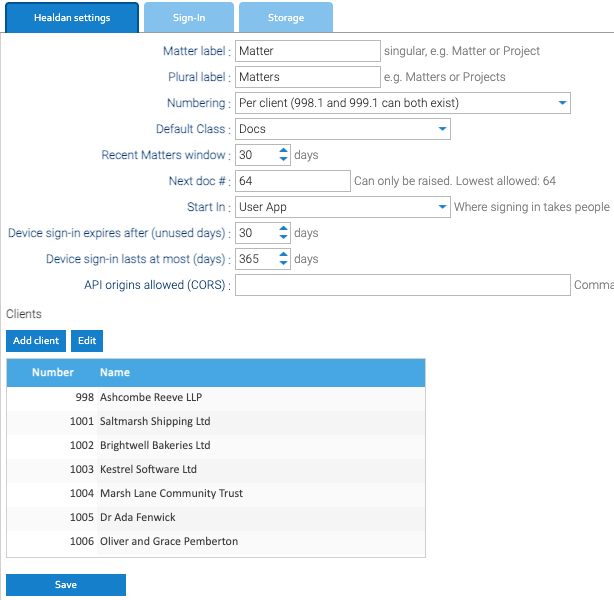
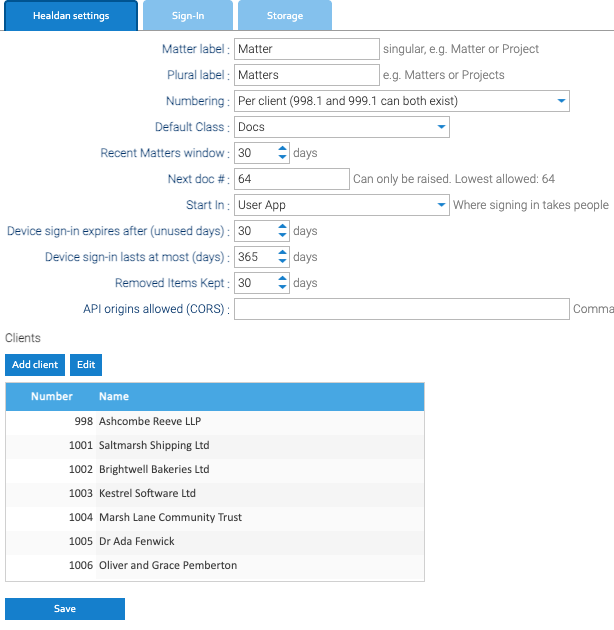
Document folders and the Trash in the User Guide
The Trash page is rewritten for the app, with the Classic Interface's Trash as a section and a new screenshot from the demo firm. Copying, Moving and Deleting covers deleting and moving folders, Undo and the question before a folder leaves its matter; Getting Around and My Matters name the Delete key, the tree's menu and drag. The held-back lines (top-level folders, Known Limitations) land here, the Classic Interface's real labels (Permanently Delete, Empty trash) replace the Admin pages' descriptions, and Healdan Settings' screenshot shows Removed Items Kept.

Changed region(s): [[0.0, 0.0, 1.0, 0.51], [0.0, 0.51, 0.7117, 1.0]]

diff --git a/site/content/user/documents/the-trash/index.md b/site/content/user/documents/the-trash/index.md
@@ -3,41 +3,103 @@ title: The Trash
 weight: 7
 ---
 
-{{< callout type="info" >}}
-This is in the [Classic Interface](../../the-classic-interface/), which the Healdan app doesn't replace yet. In the app, open your menu and choose **Classic Interface**; you stay signed in.
-{{< /callout >}}
+A document or folder you delete goes to the Trash, where you can restore it. Healdan has **Undo** on the message
+that follows a delete, for the first moments, and the **Trash** at the foot of the left pane for as long as you need.
+Taking an item out of the Trash is the only step that can't be undone by you: even then an administrator can still
+restore it for a while.
 
-A document or folder you delete goes to the trash, where you can restore it until it's removed for good.
+## Where a Deleted Item Goes
+
+1. **In the Trash.** You can restore anything you deleted, from the Trash.
+2. **Removed.** You took it out of the Trash with **Remove…** or **Empty Trash…**. It's gone from your sight, and you
+   can't restore it, but an administrator can, for a number of days: 30 by default, which an administrator sets.
+3. **Destroyed.** After those days it's gone for good.
+
+So a mistake that you notice late is still worth reporting to your administrator.
+
+## Deleting, and Undo
+
+Select a document or a folder and press **Delete** (on a Mac, the delete key), or choose **Delete** from its menu.
+Healdan asks first, for example "Move "Old Drafts" to the Trash?", and for a folder says what it holds: "It holds 3
+folders and 11 documents." The question ends "You can restore it from the Trash, at the foot of the left pane." Choose
+**Move to Trash**. See [Copying, Moving and Deleting](../copying-moving-and-deleting/) for who can delete what.
+
+Healdan then says "Moved "Old Drafts" to the Trash", with an **Undo** button. The message stays for about 10 seconds,
+longer while the pointer or the keyboard's focus is on it. **Undo** puts back what that delete took, where it was, and
+says "Restored "Old Drafts"". From the keyboard, press **F6** to move to the message, then Tab to **Undo** and press
+Enter.
+
+A delete takes a folder with everything in it that was in it, and its trash entry is that folder as one item. It
+doesn't take what was already in the Trash, yours or a colleague's, or already removed.
 
 ## Finding It
 
-Open the **Trash** section at the bottom of the Documents screen's left pane. It lists what **you** deleted, by
-name: others' deletions are in their own trash. Type in the box above the list to filter it.
+Choose **Trash**, at the foot of the left pane, below **My Favorites**. In a narrow window it's at the foot of the
+left pane too, which the **☰** (Navigation) button opens. It lists what **you** deleted, newest first. Others'
+deletions are in their own Trash.
 
-![The Trash section of the left pane listing a deleted document, Subscription Agreement – First Draft.docx, and a deleted folder, Old Drafts, which is right-clicked to show Restore, Remove and Empty trash](trash.png)
+![The Trash listing two deleted documents and a deleted folder, Superseded Drafts, with "2 items" beside its name. The folder is selected and its details are at the right: Folder, 2 items, Deleted From 1003.1 › Drafts, Deleted, Holds 1 folder, 1 document, with Restore and Remove… buttons](trash.png)
+
+- **A deleted folder is one row,** with how many items it holds, such as "14 items", beside its name. What's inside it
+  isn't a row of its own.
+- **The columns** are **Name**, **Doc #**, **Deleted From** and **Deleted**. **Deleted From** gives the matter number
+  and the folder path. Choose the **Name** or **Deleted** header to sort by it.
+- **The count** at the top of the list says how many items you have.
+- **Select an item** and its details open at the right: its kind, its size or, for a folder, what it **Holds**, such
+  as "3 folders, 11 documents", **Deleted From** in full, and **Deleted**, with **Restore** and **Remove…**.
+- **Enter opens nothing,** as a deleted item has no page to open.
+
+With nothing in it, the Trash says "Nothing in the Trash." and where deleted items come.
 
 ## Restoring
 
-Healdan restores into the folder that's **open in the folder tree**, which isn't always where the item was. So:
+Select one or more items and choose **Restore** in the toolbar or the details, or right-click one and choose
+**Restore**. Each goes **back to the folder it was deleted from**, and Healdan says, for example, "Restored "Old
+Drafts" to 1001.1 › Drafts", with **Open**, which takes you to that folder.
 
-1. In the **Browser** section, open the folder to restore into: usually the one it was deleted from.
-2. Open the **Trash** section, right-click the document or folder, and choose **Restore**.
-
-Healdan says "Document restored into the current folder", or "Folder restored into the current folder".
-
-- **The usual rule applies.** A document can only be restored into a folder inside a matter's workspace. Restored
-  at the top level of a matter, it's refused with "Documents can't be saved at the top level of a matter. Choose one
-  of its folders."
-- **You need the Delete permission** on what you restore, as you did to delete it. Restoring a document into another
-  folder than the one it came from also needs the Write permission there, and a folder the Add permission.
-- **If right-clicking does nothing,** the open folder is one you can't add to. Open another first.
-- **A restored document keeps its doc #.**
-- **Restoring a folder brings back what was deleted inside it,** even documents deleted before the folder itself.
+- **A restored document keeps its doc #,** and its versions come back with it.
+- **A restored folder brings back what was deleted with it,** and only that. A document someone deleted from the
+  folder earlier stays in its deleter's Trash, and can be restored into the folder once it's back.
+- **If that folder is gone,** or you can't put anything back into it, Healdan opens a window, "Restore "Old Drafts"
+  to…", where you choose another folder as you do for **Move To…**. The reason is "The folder it was deleted from is
+  gone, or you can't restore into it. Choose another."
+- **You need the Delete permission** on what you restore, as you did to delete it. The usual filing rules apply: a
+  document can only come back into a folder inside a matter's workspace, and a restore into another matter gives its
+  documents that matter's client and matter. A matter that already holds a copy of an email refuses a second one.
+- **Some items can't be restored here.** Healdan says ""Lease.pdf" can't be restored from here." An administrator
+  restores a Store in the Classic Interface.
 
 ## Removing for Good
 
-- **Remove,** on an item's right-click menu, takes it out of the trash for good, after you confirm. You can't restore
-  it afterwards.
-- **Empty trash** removes everything in your trash.
+**Remove…**, in the toolbar, the details, an item's right-click menu and on the **Delete** key, takes the selected
+items out of your Trash after you confirm. Healdan asks "Remove "Old Drafts" from the Trash?", and for a folder what it
+holds. Choose **Remove**, in red, or **Cancel**, which has the focus.
 
-Your administrator can see what everyone has deleted, under **Administration → Reports**.
+> You won't be able to restore it. An administrator can, for 30 days.
+
+The days are the number your administrator has set. **Empty Trash…**, at the right of the toolbar, asks "Empty the
+Trash?", says "This removes all 4 items you deleted." and ends the same way. Choose **Empty Trash**.
+
+Nothing in the app destroys anything. After the days an administrator sets, a nightly job destroys what was removed.
+
+## For Administrators
+
+An administrator sees **Mine**, **Everyone's** and **Removed** beside the heading. **Everyone's** adds who deleted each
+item, and restores anyone's. **Removed** lists what people took out of their Trash, with who removed it and when, and
+how long is left before it's destroyed, and has **Restore** only. See [The Trash and Removed
+Items](../../../admin/the-trash-and-removed-items/) in the Admin Guide.
+
+## In the Classic Interface
+
+The [Classic Interface](../../the-classic-interface/) has a Trash too, in the left pane's **Trash** section, which
+lists what **you** deleted, a deleted folder's documents and subfolders as rows of their own. It's the way to restore a
+Store.
+
+1. Open the **Trash** section, and open the folder to restore into in the **Browser** section. The Classic Interface
+   restores into the folder that's open in its folder tree, which isn't always where the item was.
+2. Right-click the document or folder in the **Trash** section and choose **Restore**.
+
+Healdan says "Document restored into the current folder", or "Folder restored into the current folder". A document
+restored at the top level of a matter is refused with "Documents can't be saved at the top level of a matter. Choose
+one of its folders." **Remove** and **Empty trash**, on the same menu, take items out of your Trash after a question, as the app's
+**Remove…** and **Empty Trash…** do. It follows the same rules otherwise.

diff --git a/site/content/user/documents/copying-moving-and-deleting/index.md b/site/content/user/documents/copying-moving-and-deleting/index.md
@@ -3,11 +3,13 @@ title: Copying, Moving and Deleting
 weight: 6
 ---
 
-In the app you can rename, move and delete documents, and make and rename folders. Copying a document, and moving or
-deleting a folder, are in the [Classic Interface](../../the-classic-interface/). What you can't do to a document, because of
-its permissions or because it's locked or checked out, is refused with a message in the app, and greyed out in the Classic Interface.
-All of it works in any list of documents in the app: a folder, search results, the Recent lists and a document's own
-page (`/app/doc/` and its doc #).
+In the app you can rename, move and delete documents and folders, and make folders. A matter's own folder and a Store
+are moved and deleted by an administrator in the [Classic Interface](../../the-classic-interface/), which is also where
+you copy a document or a folder. What you can't do, because of permissions or because a document is locked or checked
+out, is refused with a message in the app, and greyed out in the Classic Interface.
+Documents work in any list in the app: a folder, search results, the Recent lists and a document's own page
+(`/app/doc/` and its doc #). Folders work in a folder's list, **Recent › Folders**, a **Folders** search and the
+**My Matters** tree.
 
 ## Renaming a Document in the App
 
@@ -32,7 +34,7 @@ The rename is in the document's [history](../document-history/) and makes its ne
 ## Moving Documents in the App
 
 Select the documents, then choose the **⋯** (More) button, then **Move To…**, or right-click one of them and choose
-**Move To…**. A window opens that lists your **Recent Matters**, then your
+**Move To…**. The same goes for folders (see [Moving a Folder in the App](#moving-a-folder-in-the-app)). A window opens that lists your **Recent Matters**, then your
 **My Matters** other than those, so a matter in both is listed once, under Recent. Type in **Find a Matter** to search for another by its number or name.
 
 1. Choose the matter. The window lists its folders.
@@ -62,16 +64,66 @@ there, the others move and only they are counted.
 Dropping documents on a matter's top level, or on a search folder, says "Choose a folder inside the matter" and moves
 nothing. See [Where Documents Can Go](#where-documents-can-go).
 
-## Deleting Documents in the App
+## Deleting in the App
 
-Select them and press **Delete** (on a Mac, the delete key), or choose the **⋯** (More) button, then **Delete**, or
-right-click one of them and choose **Delete**. Healdan asks "Move 2 documents to the Trash?" and lists each one's name.
-Choose **Move to Trash**, or **Cancel**, or press **Esc**.
+Select documents or folders, or both, and press **Delete** (on a Mac, the delete key), or choose the **⋯** (More)
+button, then **Delete**, or right-click one of them and choose **Delete**. On a folder in a list, on a folder in the
+**My Matters** tree and on the open folder's **⋯** beside its name, the same choices are there. Healdan asks "Move
+"Lease.pdf" to the Trash?", or "Move 4 items to the Trash?", and lists them. For a folder it says what it holds: "It
+holds 3 folders and 11 documents." Choose **Move to Trash**, or **Cancel**, or press **Esc**.
 
-- **The Trash is in the Classic Interface,** where you can restore what you deleted: "The Trash is in the Classic
-  Interface, where they can be restored." See [The Trash](../the-trash/).
-- **You need the Delete permission.** A document that's locked, or checked out by anyone, you included, is refused with the
-  reason: release it first. The others are deleted all the same.
+Healdan then says "Moved "Lease.pdf" to the Trash", or "Moved 4 items to the Trash", with **Undo**, which puts it back
+where it was. See [The Trash](../the-trash/), which also restores what you deleted, for as long as it stays there.
+
+- **You need the Delete permission.** For a folder you need it on the folder and on everything inside it, including
+  what you can't see. If you don't have it everywhere, Healdan says "It holds items you don't have permission to
+  delete."
+- **Locked or checked-out documents are refused with the reason:** release them first. A folder with a document checked
+  out inside it, by anyone, you included, isn't deleted: Healdan says "Documents in it are checked out:", lists the
+  ones you can read and says "They can be deleted once they're checked in or released."
+- **A folder with an immutable document inside** can't be deleted: "It holds an immutable document, which can't be
+  deleted."
+- **Only administrators delete the folders at the top of a matter's workspace,** such as Correspondence and Drafts:
+  **Delete** is greyed out there for anyone else, and the **Delete** key says "Only administrators can delete a
+  matter's top-level folders." A matter's own folder isn't deleted in the app at all: "A matter's own folder is deleted
+  by an administrator in the Classic Interface."
+- **Several at once,** documents and folders together, each is deleted on its own. A window, "Some Items Weren't Moved
+  to the Trash", says which weren't and why, and the others are deleted all the same.
+- **Deleting the folder that's open** takes you to its parent.
+
+## Moving a Folder in the App
+
+A folder moves the ways documents do, and a selection can hold folders and documents together: each is moved on its
+own, with what's refused said per item.
+
+- **Move To…** on the folder's right-click menu, in the **⋯** (More) menu, in the **My Matters** tree's **⋯**, on the
+  open folder's **⋯** beside its name. The window is the one for documents, titled "Move "Old Drafts"" for one folder,
+  or "Move 4 Items".
+- **Dragging** the folder's row, or a folder in the **My Matters** tree, onto a folder in the tree. The folder you're
+  over lights up.
+
+In the window, a choice Healdan won't allow is greyed out with its reason:
+
+- **"The folder itself,"** the folder you're moving, and what's in it.
+- **"Already there,"** where it is already.
+- **"Administrators only,"** the top of a matter, for anyone but an administrator.
+
+A search folder is never listed. Healdan won't move a folder into a Store, a search folder or its own tree.
+
+- **You need the Move permission** on the folder and on everything inside it, including what you can't see, and the
+  Add permission on the folder you move it to. Without it Healdan says "It holds items you don't have permission to
+  move." or "You don't have permission to move this folder."
+- **A folder can't move while a document in it is checked out.** Healdan names the ones you can read.
+- **Only administrators move the folders at the top of a matter's workspace,** or move a folder to the top of one:
+  **Move To…** is greyed out there for anyone else. A matter's own folder is moved by an administrator in the Classic
+  Interface.
+- **A folder can't go where another folder has its name.**
+- **Healdan asks before a folder leaves its matter.** "Move "Old Drafts" into 1003.2 – Licence Review?", it says, with
+  "Its 11 documents will take 1003.2's client and matter, and the properties its template sets." Choose **Move**, or
+  **Cancel** to keep it where it is. A move within a matter goes at once.
+
+Healdan says "Moved "Old Drafts" to Drafts", naming the folder it went to, when it's done. There's no **Undo** for a move: move it back. The
+folder keeps its documents and their doc #s.
 
 ## Making a Folder in the App
 

diff --git a/site/content/user/getting-started/getting-around/index.md b/site/content/user/getting-started/getting-around/index.md
@@ -44,6 +44,8 @@ The left pane scrolls on its own when it's longer than the window. From the top 
 - **My Favorites:** documents and folders you've added as favourites, each with the icon of its kind, as in the
   lists, folders first and then by name. The star beside a folder's name, or beside a document's name in its details,
   adds one. A favourite can have a name of its own: see [A Favourite's Own Name](#a-favourites-own-name).
+- **Trash:** at the foot, apart from the sections above it, what you deleted, which you can restore from there. See
+  [The Trash](../../documents/the-trash/).
 
 [My Matters and Recent Matters](../../finding-documents/my-matters-and-recent-matters/) explains the first two.
 If your firm calls matters something else, such as projects, the headings use its word: Recent Projects and My
@@ -161,8 +163,9 @@ is a shortcut, never the only way.
   computers; **Rename**, **Move To…** and **Delete**; **Copy Link** and **Add to Favorites** (or **Remove
   from Favorites**). They work as the toolbar's buttons and its **⋯** (More) menu do.
 - **A folder,** in a list or in the **My Matters** tree: **Open**, **Open in New Tab**, **New Folder** where you can
-  make one (inside a matter, and never in a search folder), **Rename** (greyed out where you can't rename the folder,
-  and on a matter's own folder), and **Add to Favorites** or **Remove from Favorites**.
+  make one (inside a matter, and never in a search folder), **Rename**, **Move To…** and **Delete** (each greyed
+  out where you can't do it to the folder, and **Rename** on a matter's own folder, which has no **Move To…** or
+  **Delete** either), and **Add to Favorites** or **Remove from Favorites**.
 - **A matter,** in **My Matters**, **Recent Matters** or a search for matters: **Open**, **Open in New Tab**,
   **Rename**, which is always greyed out (a matter takes its name from **Edit Matter…** in the Classic Interface), and
   **Add to My Matters** or **Remove from My Matters**.
@@ -171,8 +174,8 @@ is a shortcut, never the only way.
 
 Right-clicking a document that isn't selected selects it first, in place of what was selected, as the Finder does.
 Right-clicking one of several selected documents keeps them all selected, and the menu then acts on all of them: only
-**Move To…**, **Delete** and, when they're all checked out to you, **Release** take several documents, so the rest are
-greyed out, as they are on the toolbar.
+**Move To…**, **Delete** and, when they're all checked out to you, **Release** take several documents, and
+**Move To…** and **Delete** folders too, so the rest are greyed out, as they are on the toolbar.
 
 **Open in New Tab** opens the document's or folder's page in a new browser tab. Anywhere else, such as a text box, the
 search box, an email's message, a preview, or the space in a list below its last row, right-clicking shows your
@@ -198,7 +201,8 @@ once the list has the focus.
 | Enter | Opens the document in its app (the Healdan Helper), or a folder |
 | Space | Opens Quick Look; Esc closes it |
 | F2 | Renames the selected document in place, the folder with the focus in a list or in the **My Matters** tree, or in **My Favorites** the favourite with the focus |
-| Delete | Moves the selected documents to the Trash, after asking |
+| Delete | Moves the selected documents and folders, or the folder with the focus in the **My Matters** tree, to the Trash, after asking |
+| F6 | Moves to the message that follows a delete, where Tab reaches **Undo** |
 | Shift-F10, or the menu key | Opens the [right-click menu](#right-click-menus) of the row, tree item or left-pane link with the focus; Esc closes it |
 | Option-Enter on **Upload** | Files with the form first |
 

diff --git a/site/content/admin/the-trash-and-removed-items.md b/site/content/admin/the-trash-and-removed-items.md
@@ -61,25 +61,27 @@ with it. Every document that comes back is queued for indexing, so search finds 
 
 ### In the Classic Interface
 
-The Classic Interface keeps its Trash, and its **Deleted documents** and **Deleted folders** reports (see
-[Reports](../system/reports/)). Two things differ from the Trash above:
+The Classic Interface keeps its **Trash** section in the Documents screen's left pane, and its **Deleted documents** and
+**Deleted folders** reports under **Administration → Reports** (see [Reports](../system/reports/)). Two things differ
+from the Trash above:
 
 - **Its Trash lists a deleted folder's contents as rows of their own,** as it always has, with the folder.
 - **It restores into the folder that is open in its tree,** not necessarily where the item was deleted from.
 
 What it restores follows the same rules as the rest: a restore of a folder brings back only what that delete took, and
 a folder that has been removed from the Trash comes back only for an administrator. The reports list what is in the
-Trash and what was removed, one row at a time, everyone's for administrators, and restore them. Restoring or removing
+Trash and what was removed, one row at a time, everyone's for administrators, and **Restore** them. Restoring or removing
 one row changes that row alone. A row removed on its own, such as one subfolder of a deleted folder, leaves that folder's
 item for an item of its own in Removed, where you can restore it before the nightly job destroys it.
 
-**Removing** takes a folder's contents with it, whichever of the Classic Interface's three removal actions you use:
-deleting a folder from the Trash, deleting a document from the Trash, and Empty trash. Each records who removed what
-and when.
+**Removing** takes a folder's contents with it, whichever way you do it in the Classic Interface: **Remove** on a
+folder in its Trash, **Remove** on a document there, or **Empty trash**, each after a question ("Do you want to delete
+the selected elements?", or "Do you want to clear the trash can?"). Each records who removed what and when.
 
-The reports' **Destroy Documents** action (it asks for the menu of that name) stays outside the tiers. It destroys a
-document at once, whatever its state and however recently it was deleted, and only administrators have it. Use it with
-care: there's nothing to restore afterwards.
+The **Deleted documents** report's **Permanently Delete** action, which also needs the **Destroy documents** menu (see
+[Reports](../system/reports/)), stays outside the tiers. It destroys a document at once, whatever its state and
+however recently it was deleted, and only people with those menus have it. Use it with care: there's nothing to restore
+afterwards.
 
 ## The Nightly Job
 

diff --git a/site/content/user/finding-documents/my-matters-and-recent-matters/index.md b/site/content/user/finding-documents/my-matters-and-recent-matters/index.md
@@ -14,8 +14,15 @@ open it in the main area.
 
 - **The tree opens to where you are.** When the folder open in the main area is inside one of your matters, the tree
   opens the folders above it and marks its row.
-- **Rename a folder** with its **⋯** button, shown while you point at it or move to it with the arrow keys, or with
-  **F2**. See [Renaming a Folder in the App](../../documents/copying-moving-and-deleting/#renaming-a-folder-in-the-app).
+- **Rename, move or delete a folder** with its **⋯** button, shown while you point at it or move to it with the arrow
+  keys: **Rename**, **Move To…** and **Delete**. **F2** renames it and the **Delete** key moves it to the Trash, after
+  asking. See [Renaming a Folder in the App](../../documents/copying-moving-and-deleting/#renaming-a-folder-in-the-app),
+  [Moving a Folder in the App](../../documents/copying-moving-and-deleting/#moving-a-folder-in-the-app) and
+  [Deleting in the App](../../documents/copying-moving-and-deleting/#deleting-in-the-app). A matter's own folder has
+  neither **Move To…** nor **Delete**: an administrator moves or deletes it in the Classic Interface.
+- **Drag a folder onto another** in the tree, or drag rows from a list onto a folder, to move them there. The folder
+  you're over lights up. Dragging a folder into another matter asks first. A drag can't be done from the keyboard: use
+  **Move To…**.
 - **To add a matter,** open it, or any folder in it, and click **+** beside the **My Matters** heading. The **+**
   shows only while you're in a matter that isn't in the list yet. Or right-click the matter in **Recent Matters**, or in
   a search for matters, and choose **Add to My Matters**.

diff --git a/site/content/install/known-limitations.md b/site/content/install/known-limitations.md
@@ -142,11 +142,11 @@ weight: 12
 ## The User App
 
 - **Some things are still in the Classic Interface.** The app at `/app/` finds, previews, files, checks out, edits
-  the properties of (Author and Typist included), renames, moves and deletes documents, makes and renames folders, and adds
-  documents and folders to My Favorites and takes them off. Other things are done in the Classic
+  the properties of (Author and Typist included), renames, moves and deletes documents and folders, makes folders, restores
+  and removes what was deleted, and adds documents and folders to My Favorites and takes them off. Other things are done in the Classic
   Interface, one choice away in the app's menu on the same sign-in: [The Classic
   Interface](../../user/the-classic-interface/) lists them. They are:
-  - the Trash, to restore or remove what was deleted;
+  - a Store's Trash item, which is restored in the Classic Interface;
   - permissions on documents and folders;
   - a document's history;
   - notes, and links between documents;
@@ -154,7 +154,8 @@ weight: 12
   - your profile and password, and your messages;
   - making and editing search folders;
   - choosing and reordering the list's columns, and setting properties on many documents at once;
-  - moving and deleting folders, copying documents, and locking them;
+  - moving and deleting a matter's own folder or a Store, which an administrator does there, and copying documents and
+    folders, and locking documents;
   - tags, and a bookmark's own name and description (the Bookmarks section; the app's My Favorites adds and removes
     them).
 

diff --git a/site/content/admin/healdan-settings/index.md b/site/content/admin/healdan-settings/index.md
@@ -8,7 +8,7 @@ Clients are saved from their own window, without Save. Two tabs sit beside them:
 in through a provider, such as Microsoft Entra ID (see [Sign-In Providers](#sign-in-providers)), and **Storage**,
 which sets up where each Store keeps its files (see [The Storage Tab](#the-storage-tab)).
 
-![The Healdan settings panel, with the Sign-In and Storage tabs beside it: matter labels, numbering, default Class, the Recent Matters window, the next doc #, Start In set to User App, the two device sign-in limits, API origins allowed (CORS), and the client list with Add client and Edit, holding seven clients from 998 Ashcombe Reeve LLP to 1006 Oliver and Grace Pemberton](healdan-settings.png)
+![The Healdan settings panel, with the Sign-In and Storage tabs beside it: matter labels, numbering, default Class, the Recent Matters window, the next doc #, Start In set to User App, the two device sign-in limits, Removed Items Kept, API origins allowed (CORS), and the client list with Add client and Edit, holding seven clients from 998 Ashcombe Reeve LLP to 1006 Oliver and Grace Pemberton](healdan-settings.png)
 
 | Setting | What it does |
 |---|---|

diff --git a/site/content/developer/tests.md b/site/content/developer/tests.md
@@ -343,8 +343,8 @@ code is laid out.
       Enter in the question, and where the focus lands asserted: on the remaining row of the open folder's list, by name. Row 10 ends by asserting that the Trash leaves the focus on a row of its list, or the list itself.
 
     It leaves out **Copy Link**, as headless browsers' clipboards differ between engines (`finding.spec.ts` covers it), and
-    row 9's move into another matter: the smoke fixture's only matter outside Smoke Cloud is 1.1, and a move into Smoke
-    Cloud would write through Garage after step 8 has checked its read cache. A step that can't be done by keys is a bug in the
+    row 9's move into another matter, which `folders.spec.ts` covers into matter 1.4 (a move into Smoke Cloud would
+    write through Garage after step 8 has checked its read cache). A step that can't be done by keys is a bug in the
     app.
   - `context-menu.spec.ts` checks the right-click menus. It files three documents and makes two folders through the API,
     in a folder of its own inside `E2E`, adds one of the documents to Favorites and the matter to My Matters (the move

diff --git a/site/content/admin/top-level-folders.md b/site/content/admin/top-level-folders.md
@@ -7,8 +7,11 @@ The folders directly inside a matter's workspace are its skeleton, copied from i
 rename, move or delete them, search folders included. Below the top level, everyone works under the usual
 permissions.
 
-In the app, **Rename** is greyed out on them for anyone who isn't an administrator, and on the workspace folder for
-everyone.
+In the app, **Rename**, **Move To…** and **Delete** are greyed out on them for anyone who isn't an administrator, and
+the Delete and Move To… keys and drags refuse them with the reason. On the workspace folder itself **Rename** is greyed
+out for everyone and **Move To…** and **Delete** aren't offered: an administrator moves and deletes it in the Classic
+Interface. Nobody who isn't an administrator can move a folder to the top level of a workspace either: the picker's
+choice says "Administrators only".
 
 ## The Workspace Folder Itself
 

diff --git a/site/content/admin/storage-backends/held-deletes.md b/site/content/admin/storage-backends/held-deletes.md
@@ -7,7 +7,7 @@ Healdan never deletes a file from a backend at once. Every removal waits out the
 with, so that a backup restored later still finds every file it names:
 
 - a version that's deleted;
-- a document destroyed, by the Classic Interface's Destroy Documents, or by the Trash's nightly job once it has been
+- a document destroyed, by **Permanently Delete** on the Classic Interface's **Deleted documents** report, or by the Trash's nightly job once it has been
   removed for [Removed Items Kept](../../healdan-settings/) days (see [The Trash and Removed
   Items](../../the-trash-and-removed-items/));
 - a preview or thumbnail that's made again;
